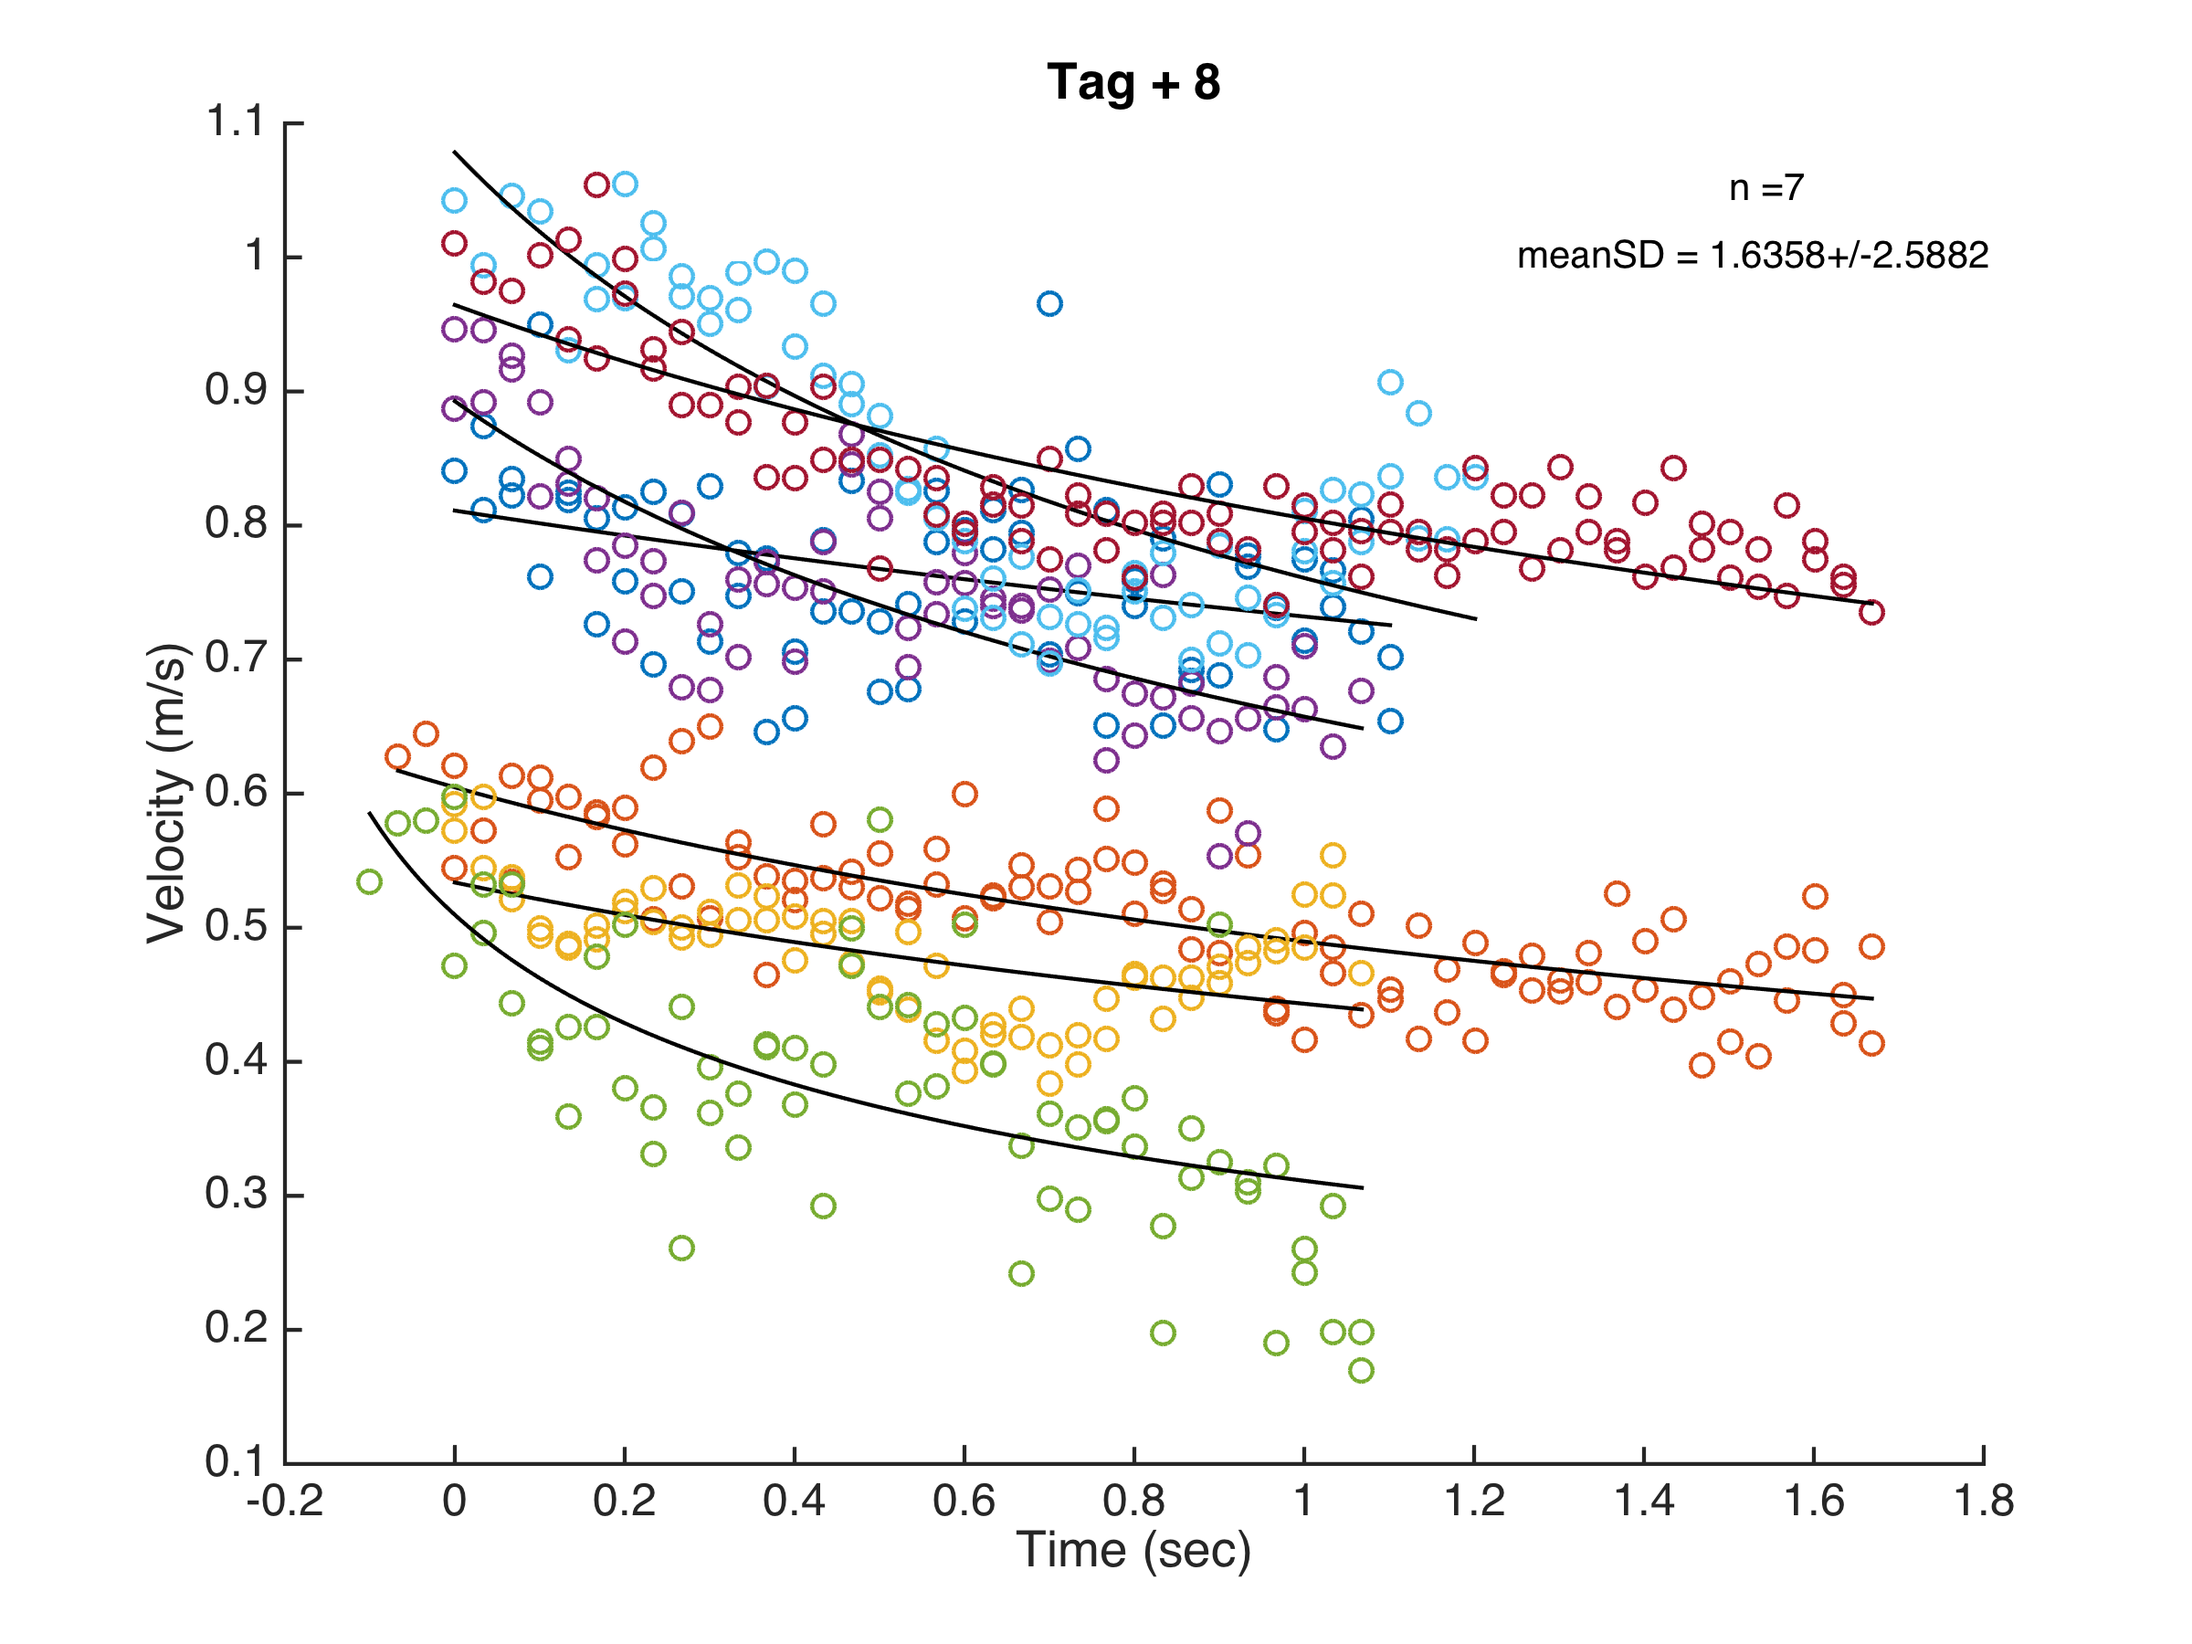
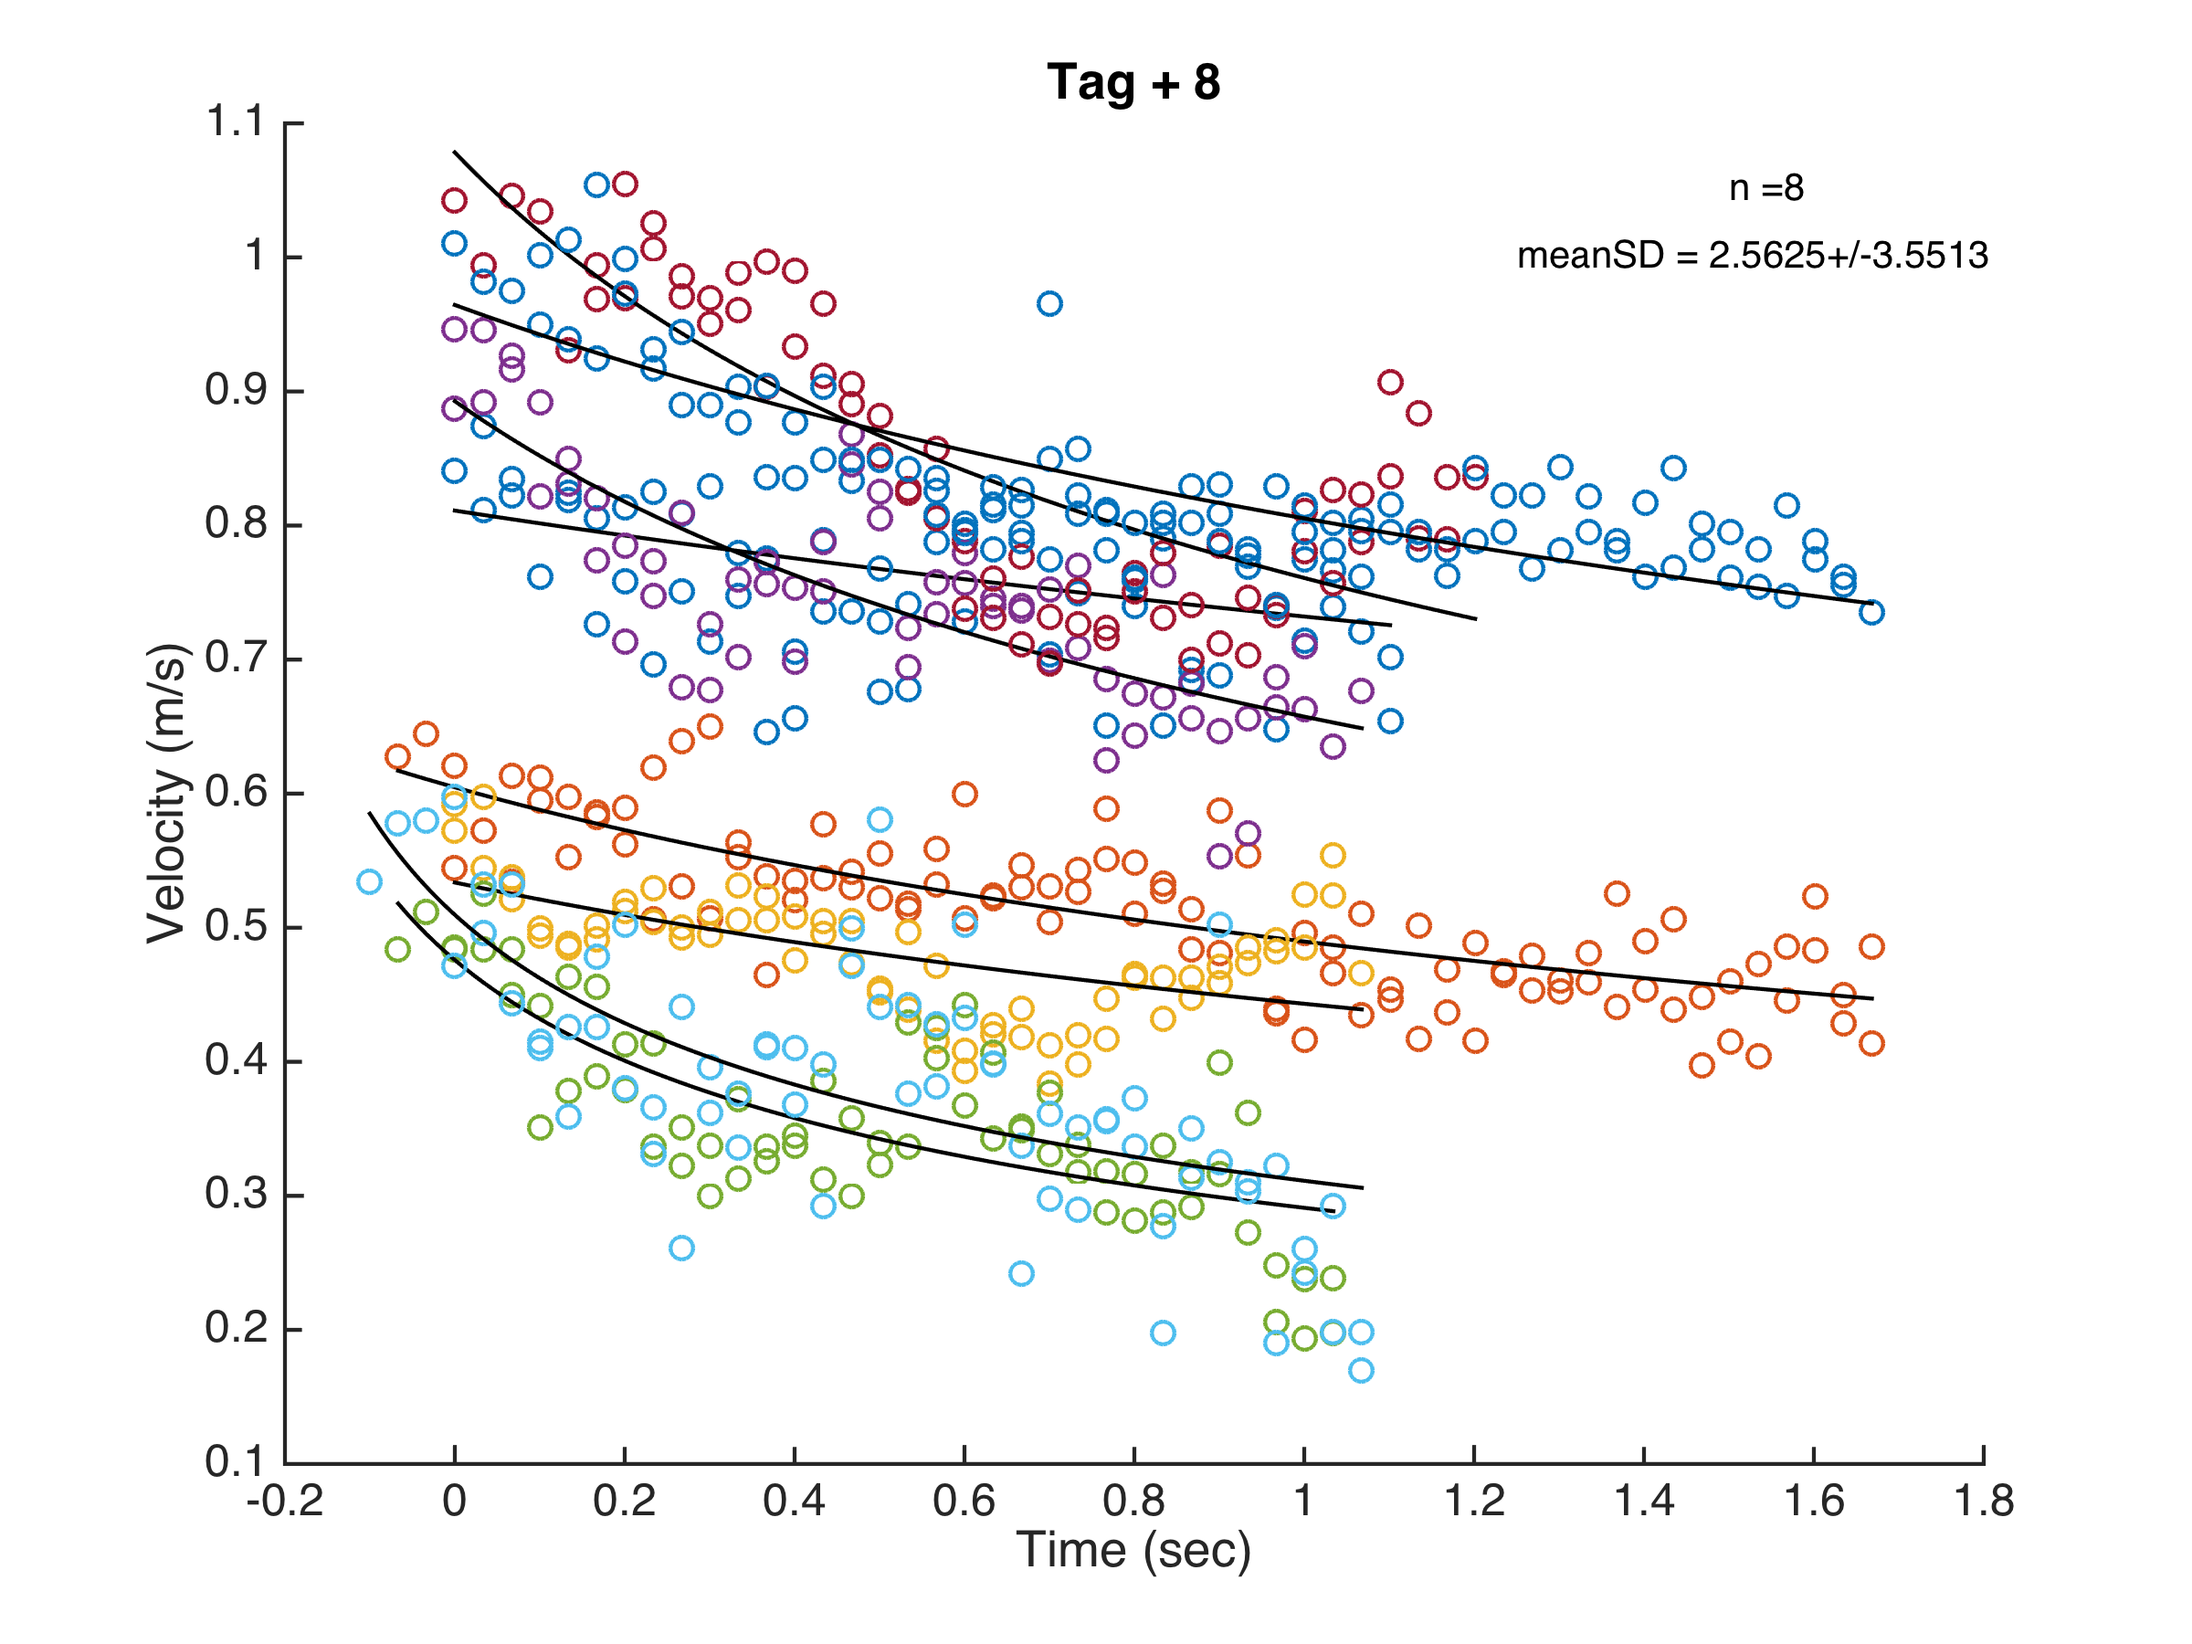
Re-ordered glide structure
To be in same order as other glide data and excel spreadsheet for
direct comparison

diff --git a/DQ2013_GlideModelAS.m b/DQ2013_GlideModelAS.m
@@ -2,11 +2,11 @@
 % 12 April 2016 Julie van der Hoop
 
 %% load some glides and process into structure
-% n = 31; % which entry of glide are you working on?
 cd /Users/julievanderhoop/Documents/NOPPTagDrag/DolphinQuest2013/Glides/CUT
-% glide(n).filename = 'UWC_Liho_289_3e_cut.csv';
+% n = 17; % which entry of glide are you working on?
+% glide(n).filename = 'UWC_Hoku_289_2extra2_cut.csv';
 % A = importdata(glide(n).filename,',',2);
-% glide(n).condition = 0;
+% glide(n).condition = 3;
 % if ~isempty(strfind(glide(n).filename,'Hoku'))
 %     glide(n).animal = 1;
 % else
@@ -16,9 +16,10 @@ cd /Users/julievanderhoop/Documents/NOPPTagDrag/DolphinQuest2013/Glides/CUT
 % glide(n).ZO2 = A.data(:,6:10);
 % glide(n).ZO1 = glide(n).ZO1(~isnan(glide(n).ZO1(:,4)),:); % replace NaNs
 % glide(n).ZO2 = glide(n).ZO2(~isnan(glide(n).ZO2(:,4)),:);
-%
+% 
 % save('GlideStructure','glide')
-clear all; load('GlideStructure')
+%% clear all; 
+load('GlideStructure')
 warning off
 close all
 
@@ -98,7 +99,7 @@ for i = 1:length(glide)
     
     % calculate error on Cd estimate
     Cd_se(i) = (se(2)*4*M)/(rho*SAw);
-    
+    pause
 end
 % get indices for conditions
 c0 = find([glide.condition] == 0);
@@ -117,7 +118,7 @@ text(2.0,1.4,['meanSD = ' num2str(mean(Cd(c0))) '+/-' num2str(std(Cd(c0)))])
 cd /Users/julievanderhoop/Documents/MATLAB/DQ/DQ2013/AnalysisFigs
 print('Cd0_notag_separate','-dpng','-r300')
 
-figure(2); 
+figure(2);
 xlabel('Time (sec)'); ylabel('Velocity (m/s)');
 adjustfigurefont
 title('Tag')
@@ -126,7 +127,7 @@ text(2,1.10,['meanSD = ' num2str(mean(Cd(c1))) '+/-' num2str(std(Cd(c1)))])
 
 print('Cd1_tag_separate','-dpng','-r300')
 
-figure(4); 
+figure(4);
 xlabel('Time (sec)'); ylabel('Velocity (m/s)');
 adjustfigurefont
 title('Tag + 4')
@@ -135,7 +136,7 @@ text(1.5,1.5,['meanSD = ' num2str(mean(Cd(c3))) '+/-' num2str(std(Cd(c3)))])
 
 print('Cd3_tag+4_separate','-dpng','-r300')
 
-figure(6); 
+figure(6);
 xlabel('Time (sec)'); ylabel('Velocity (m/s)');
 adjustfigurefont
 title('Tag + 8')
@@ -167,6 +168,18 @@ Mb = 165; % using average mass of both animals
 M = (Mb+Mt)*1.06;
 SAw = (0.08*Mb.^0.65)+SAt;
 Cd0_all = (x(2)*4*M)/(rho*SAw);
+% calculate standard error on parameter estimates
+J = jacobian;
+r = residual;
+[Q,R] = qr(J,0);
+mse = sum(abs(r).^2)/(size(J,1)-size(J,2));
+Rinv = inv(R);
+Sigma = Rinv*Rinv'*mse;
+se = sqrt(diag(Sigma));
+se = full(se); % convert from sparse to full matrix
+
+% calculate error on Cd estimate
+Cd_se0 = (se(2)*4*M)/(rho*SAw);
 
 % c1 - tag
 allpoints = vertcat(vertcat(glide(c1).ZO1),vertcat(glide(c1).ZO2));
@@ -189,6 +202,19 @@ M = (Mb+Mt)*1.06;
 SAw = (0.08*Mb.^0.65)+SAt;
 Cd1_all = (x(2)*4*M)/(rho*SAw);
 
+% calculate standard error on parameter estimates
+J = jacobian;
+r = residual;
+[Q,R] = qr(J,0);
+mse = sum(abs(r).^2)/(size(J,1)-size(J,2));
+Rinv = inv(R);
+Sigma = Rinv*Rinv'*mse;
+se = sqrt(diag(Sigma));
+se = full(se); % convert from sparse to full matrix
+
+% calculate error on Cd estimate
+Cd_se1 = (se(2)*4*M)/(rho*SAw);
+
 % c3 - tag+4
 allpoints = vertcat(vertcat(glide(c3).ZO1),vertcat(glide(c3).ZO2));
 xdata = allpoints(:,1);
@@ -209,6 +235,19 @@ M = (Mb+Mt)*1.06;
 SAw = (0.08*Mb.^0.65)+SAt;
 Cd3_all = (x(2)*4*M)/(rho*SAw);
 
+% calculate standard error on parameter estimates
+J = jacobian;
+r = residual;
+[Q,R] = qr(J,0);
+mse = sum(abs(r).^2)/(size(J,1)-size(J,2));
+Rinv = inv(R);
+Sigma = Rinv*Rinv'*mse;
+se = sqrt(diag(Sigma));
+se = full(se); % convert from sparse to full matrix
+
+% calculate error on Cd estimate
+Cd_se3 = (se(2)*4*M)/(rho*SAw);
+
 % c5 - tag+8
 allpoints = vertcat(vertcat(glide(c5).ZO1),vertcat(glide(c5).ZO2));
 xdata = allpoints(:,1);
@@ -225,9 +264,22 @@ plot(times,fun(x,times),'k-','Linewidth',2)
 % calculate Cd for C5
 Mt = 0.250+(0.135)*4; % 2x elements are 135 g
 SAt = 0.024+(0.0105)*8; % tag and element surface area from CFD simsMb = 165; % using average mass of both animals
-M = (154+Mt)*1.06; % Liho only 
+M = (154+Mt)*1.06; % Liho only
 SAw = (0.08*Mb.^0.65)+SAt;
 Cd5_all = (x(2)*4*M)/(rho*SAw);
+
+% calculate standard error on parameter estimates
+J = jacobian;
+r = residual;
+[Q,R] = qr(J,0);
+mse = sum(abs(r).^2)/(size(J,1)-size(J,2));
+Rinv = inv(R);
+Sigma = Rinv*Rinv'*mse;
+se = sqrt(diag(Sigma));
+se = full(se); % convert from sparse to full matrix
+
+% calculate error on Cd estimate
+Cd_se5 = (se(2)*4*M)/(rho*SAw);
 
 % plot labels
 xlabel('Time (sec)'); ylabel('Velocity (m/s)');
@@ -253,3 +305,9 @@ xlabel('Drag Coefficient');
 adjustfigurefont
 
 print('Cd_fitcomparison','-dpng','-r300')
+
+%% percent increases
+pinc1 = [((mean(Cd(c1))-mean(Cd(c0)))./mean(Cd(c0)))*100 ((Cd1_all - Cd0_all)/Cd0_all)*100];
+pinc3 = [((mean(Cd(c3))-mean(Cd(c0)))./mean(Cd(c0)))*100 ((Cd3_all - Cd0_all)/Cd0_all)*100];
+pinc5 = [((mean(Cd(c5))-mean(Cd(c0)))./mean(Cd(c0)))*100 ((Cd5_all - Cd0_all)/Cd0_all)*100];
+
